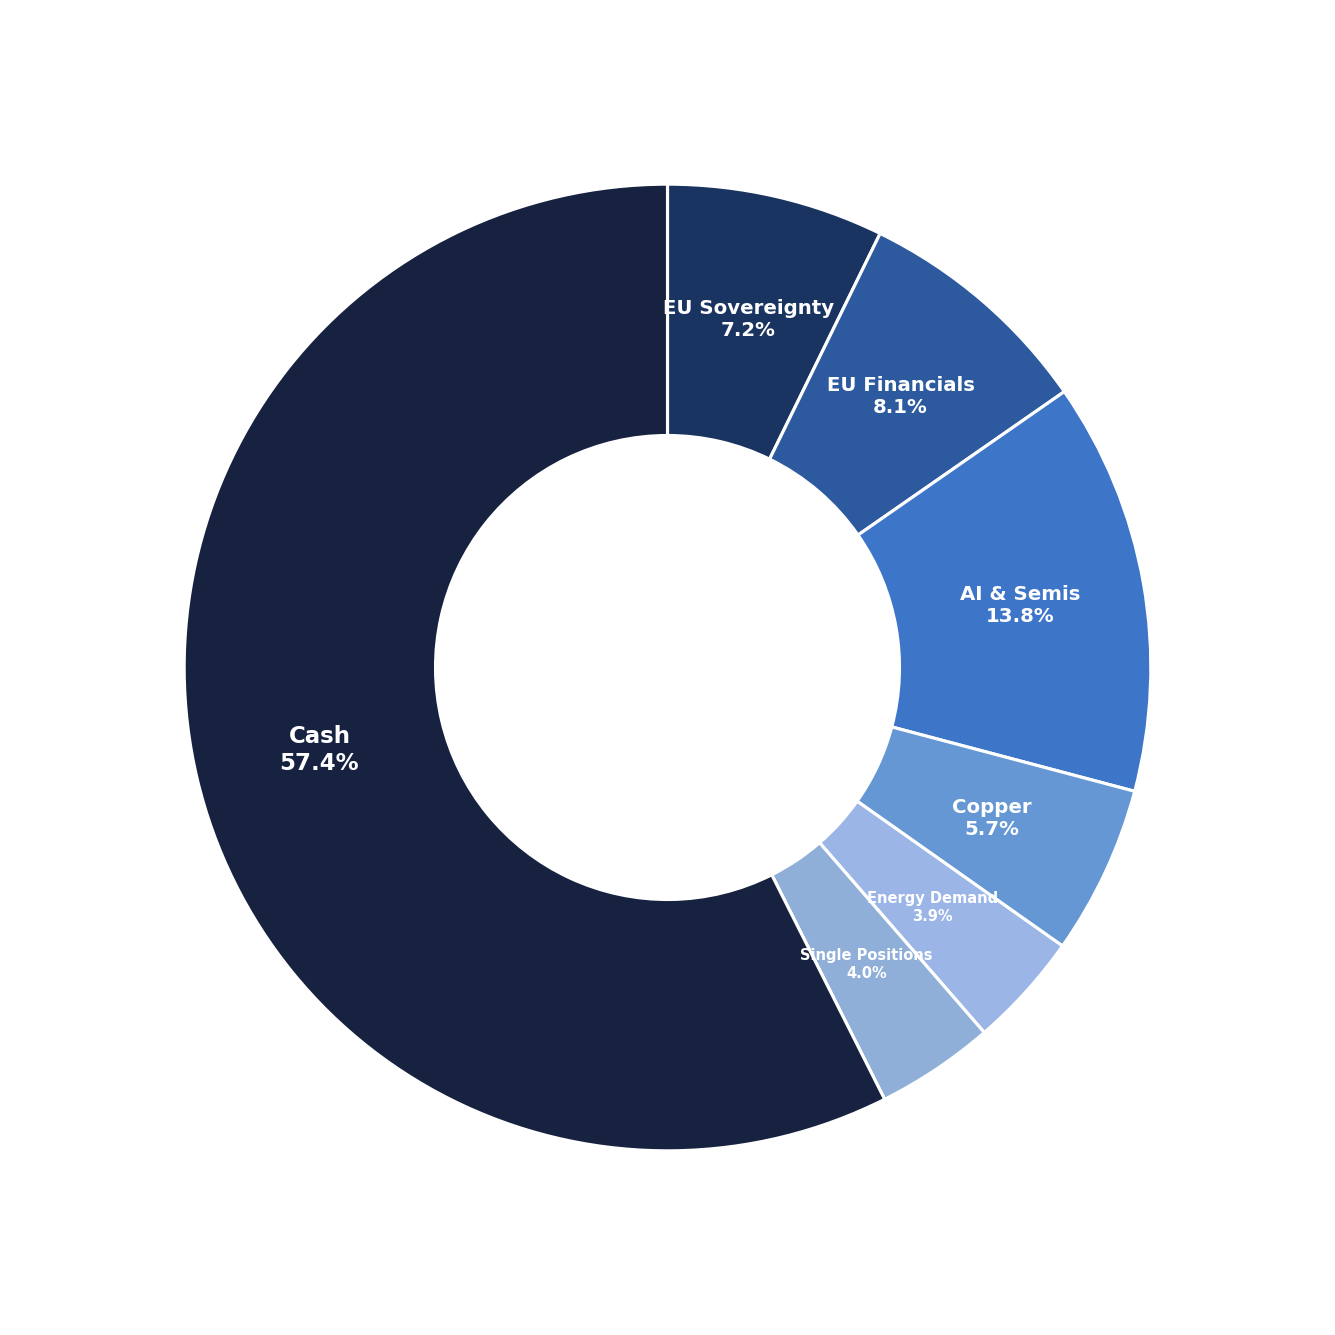
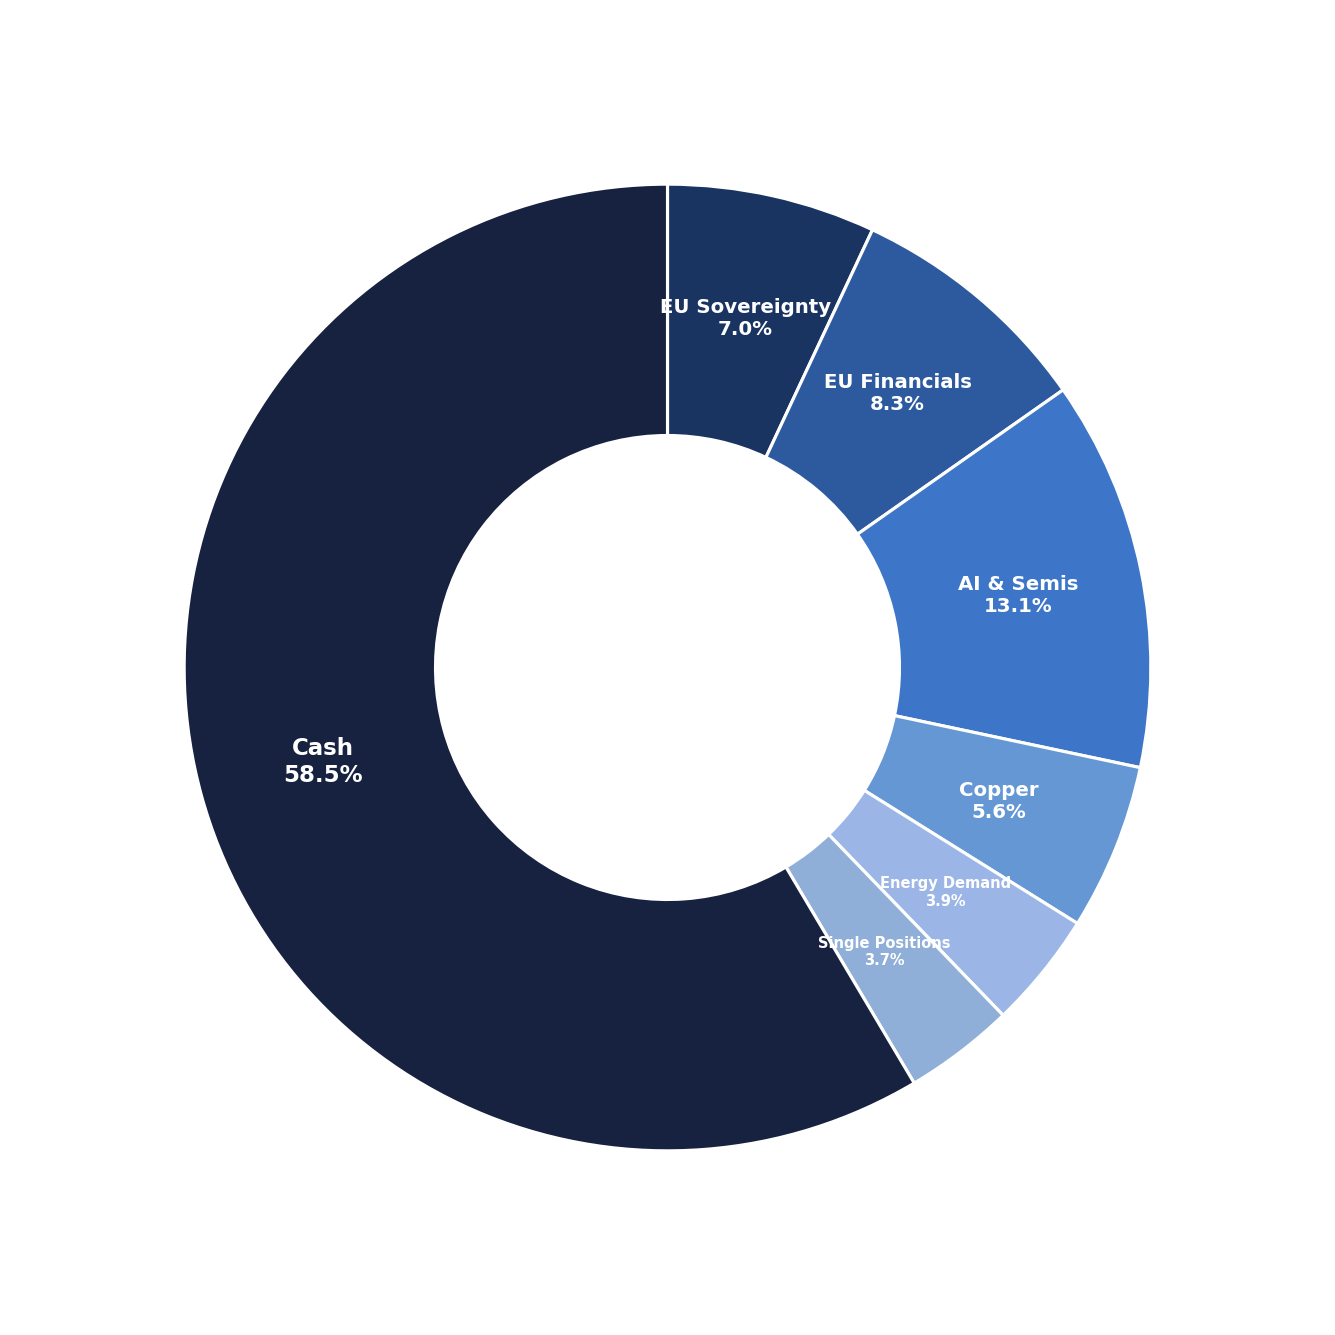
final updates

diff --git a/assets/2026-06/generate_charts.py b/assets/2026-06/generate_charts.py
@@ -103,8 +103,8 @@ def donut(labels, sizes, colors, out_path, bold_threshold=5.5):
 
 
 # ── weights_by_position ────────────────────────────────────────────────────────
-pos_labels = ["WDEF","SMH","AIXA","CASH_GBP","COPAl","SAN","ESIF","CASH_USD","PURR","XLUS","URNU","TRNl","CASH_EUR"]
-pos_sizes  = [  7.25, 7.06, 6.73,      7.37,   5.65, 4.13,  3.95,      8.13,  2.38,  2.27,  1.58,  1.58,     41.91]
+pos_labels = ["WDEF","SMH","AIXA","CASH_GBP","COPAl","SAN","ESIF","CASH_USD","PURR","XLUS","URNU","TRNI","CASH_EUR"]
+pos_sizes  = [  6.97, 7.00, 6.06,      7.54,   5.56, 4.24,  4.05,      8.34,  2.11,  2.39,  1.51,  1.58,     42.64]
 pos_colors = [
     DARK_BLUE,   # WDEF
     MID_BLUE,    # SMH
@@ -126,7 +126,7 @@ donut(pos_labels, pos_sizes, pos_colors, OUT / "weights_by_position.png")
 
 # ── weights_by_theme ──────────────────────────────────────────────────────────
 thm_labels = ["EU Sovereignty","EU Financials","AI & Semis","Copper","Energy Demand","Single Positions","Cash"]
-thm_sizes  = [           7.25,           8.08,      13.79,   5.65,           3.85,              3.96, 57.41]
+thm_sizes  = [           6.97,           8.29,      13.06,  5.56,           3.90,              3.69, 58.52]
 thm_colors = [
     DARK_BLUE,   # EU Sovereignty
     MID_BLUE,    # EU Financials